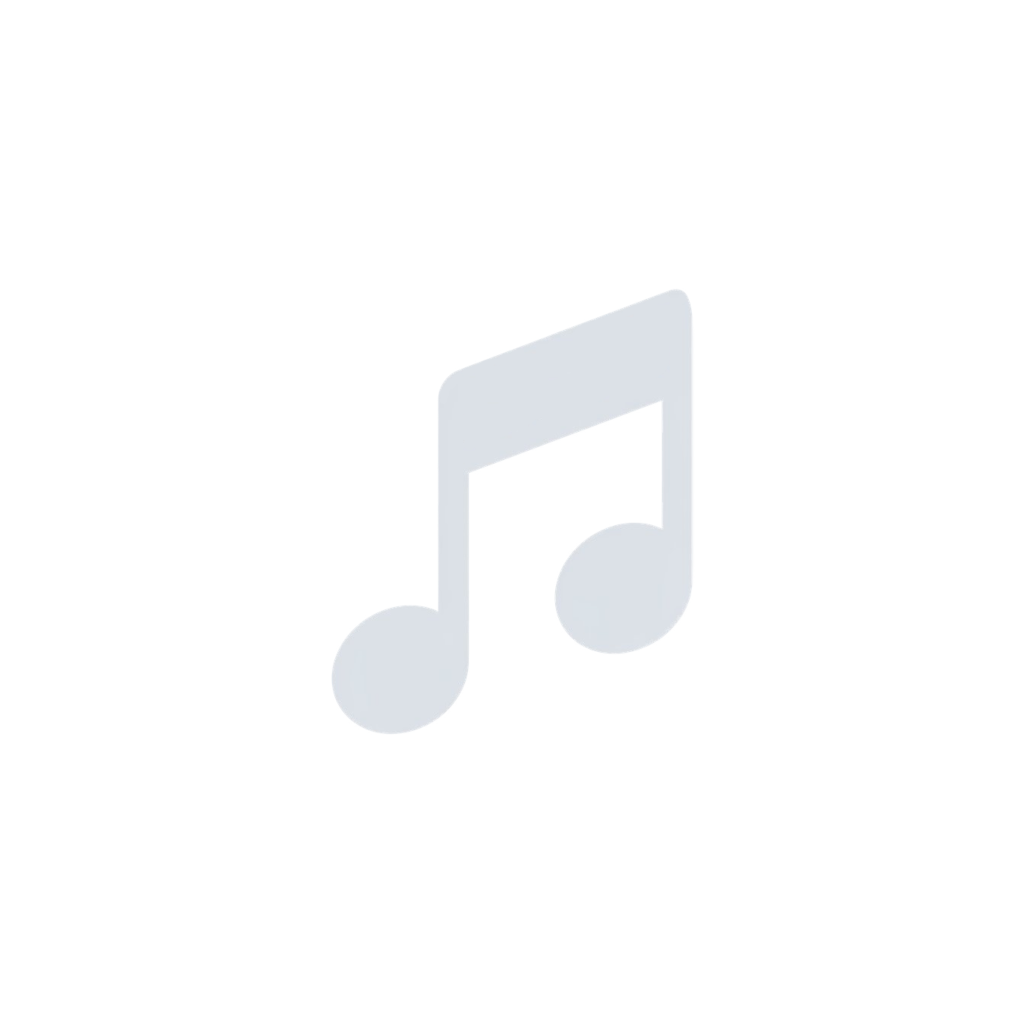
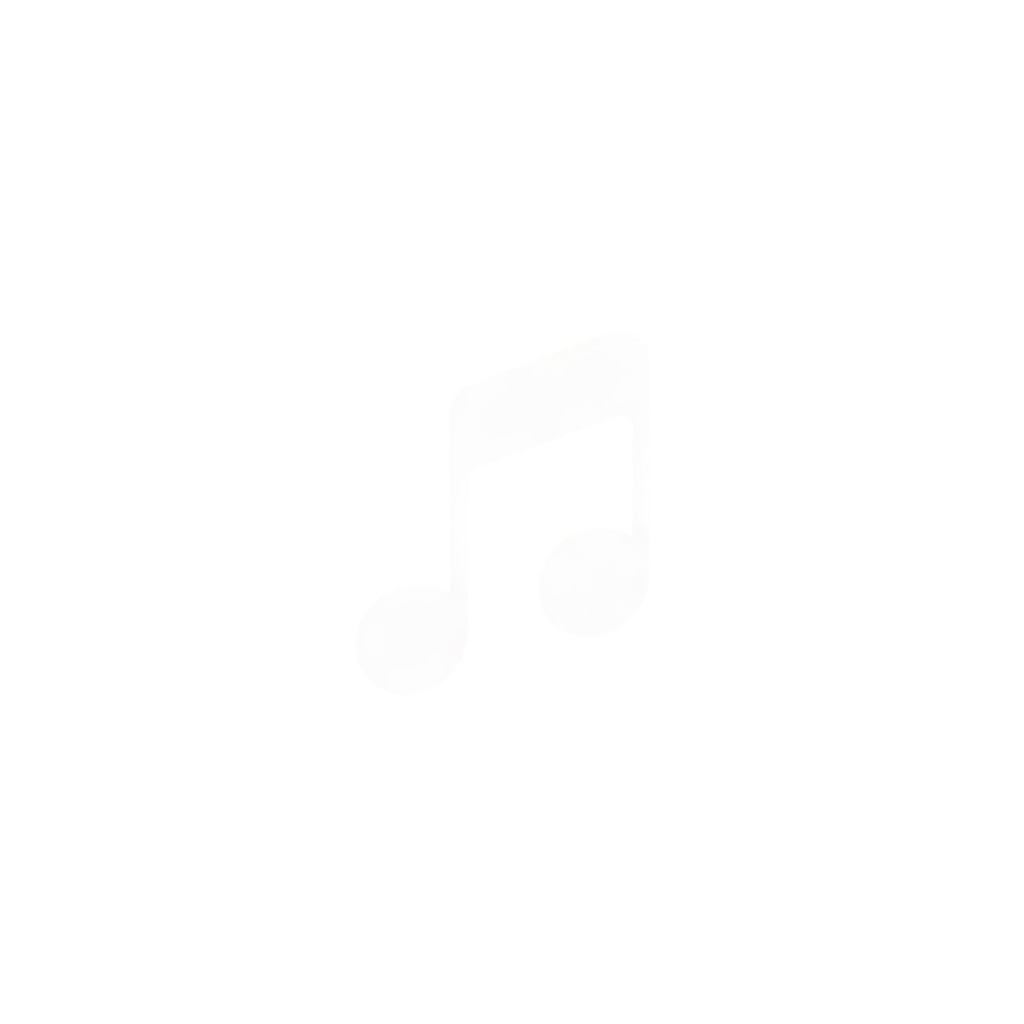
Update dependencies

Changed region(s): [[0.3125, 0.2812, 0.6875, 0.7188]]

diff --git a/app/(tabs)/_layout.tsx b/app/(tabs)/_layout.tsx
@@ -5,15 +5,13 @@ import { useThemeColor } from "@hooks/useThemeColor"
 import { PlayerProvider } from "@contexts/PlayerContext"
 
 import { family, size } from "@constants/font"
-import { elevation, border } from "@constants/styles"
+import { elevation, border, spacing } from "@constants/styles"
 
 import { Tabs } from "expo-router"
 
-import { View } from "@components/ui"
+import { View, Icon } from "@components/ui"
 
 import { Player } from "@components/navigation"
-
-import { TabBarIcon } from "@components/navigation"
 
 export default function TabLayout() {
   const bottomTabBarHeight = useBottomTabBarHeight()
@@ -38,6 +36,7 @@ export default function TabLayout() {
               fontSize: size.xxSmall,
               fontFamily: family.bold
             },
+            tabBarIconStyle: { marginBottom: -spacing.xSmall },
             headerShown: false
           }}
         >
@@ -46,7 +45,7 @@ export default function TabLayout() {
             options={{
               title: "Songs",
               tabBarIcon: ({ color, focused }) => (
-                <TabBarIcon
+                <Icon
                   name={focused ? "musical-notes" : "musical-notes-outline"}
                   color={color}
                 />
@@ -58,7 +57,7 @@ export default function TabLayout() {
             options={{
               title: "Favorites",
               tabBarIcon: ({ color, focused }) => (
-                <TabBarIcon name={focused ? "heart" : "heart-outline"} color={color} />
+                <Icon name={focused ? "heart" : "heart-outline"} color={color} />
               )
             }}
           />
@@ -67,7 +66,7 @@ export default function TabLayout() {
             options={{
               title: "Playlists",
               tabBarIcon: ({ color, focused }) => (
-                <TabBarIcon name={focused ? "list" : "list"} color={color} />
+                <Icon name={focused ? "list" : "list"} color={color} />
               )
             }}
           />
@@ -76,7 +75,7 @@ export default function TabLayout() {
             options={{
               title: "Artists",
               tabBarIcon: ({ color, focused }) => (
-                <TabBarIcon name={focused ? "people" : "people-outline"} color={color} />
+                <Icon name={focused ? "people" : "people-outline"} color={color} />
               )
             }}
           />

diff --git a/components/screens/Splash.tsx b/components/screens/Splash.tsx
@@ -10,7 +10,10 @@ import { PRIMARY_COLOR } from "@constants/colors"
 
 import Constants from "expo-constants"
 
-import { Platform, StyleSheet, Image, View } from "react-native"
+import { Platform, StyleSheet } from "react-native"
+
+import { Image } from "../ui/Image"
+import { View } from "../ui/View"
 
 import Animated, {
   useSharedValue,
@@ -60,7 +63,7 @@ export function Splash({ isAppLoaded = true, children }: SplashProps) {
     }
   }, [])
 
-  useEffect(() => {
+  useEffect(() => {    
     if (isAppFinished) {
       opacity.value = withTiming(0, { duration: 250 }, (finished) => {
         if (finished) runOnJS(setIsSplashComplete)(true)
@@ -89,12 +92,12 @@ export function Splash({ isAppLoaded = true, children }: SplashProps) {
             style={{
               aspectRatio: 1,
               height: undefined,
-              width: "60%",
-              resizeMode: "contain"
+              width: "60%"
             }}
+            contentFit="contain"
             source={require("@assets/images/adaptive-icon.png")}
             onLoadEnd={onImageLoaded}
-            fadeDuration={0}
+            transition={0}
           />
         </Animated.View>
       )}

diff --git a/app/_layout.tsx b/app/_layout.tsx
@@ -31,11 +31,15 @@ export default function RootLayout() {
   })
 
   useEffect(() => {
-    if (fontsLoaded) return
-
-    setTimeout(() => {
+    const timeoutId = setTimeout(() => {
       setIsAppReady(true)
     }, 1000)
+
+    if (fontsLoaded) {
+      setIsAppReady(true)
+    }
+
+    return () => clearTimeout(timeoutId)
   }, [fontsLoaded])
 
   const themeScheme = colorScheme === "dark" ? DarkTheme : DefaultTheme
@@ -56,7 +60,6 @@ export default function RootLayout() {
           <Stack>
             <Stack.Screen name="(tabs)" options={{ headerShown: false }} />
             <Stack.Screen name="settings" options={{ headerShown: false }} />
-            <Stack.Screen name="downloads" options={{ headerShown: false }} />
           </Stack>
         </ThemeProvider>
       </GestureHandlerRootView>

diff --git a/app/(tabs)/favorites.tsx b/app/(tabs)/favorites.tsx
@@ -17,11 +17,8 @@ export default function Favorites() {
       headerProps={{
         isAnimated: true,
         title: "Favorites",
-        renderLeft: () => {
-          return <IconButton name="download-outline" onPress={() => router.push("/downloads")} />
-        },
         renderRight: () => {
-          return <IconButton name="settings-outline" onPress={() => router.push("/settings")} />
+          return <IconButton name="cog-outline" onPress={() => router.push("/settings")} />
         }
       }}
       data={data}

diff --git a/app/(tabs)/playlists.tsx b/app/(tabs)/playlists.tsx
@@ -17,11 +17,8 @@ export default function Playlists() {
       headerProps={{
         isAnimated: true,
         title: "Playlists",
-        renderLeft: () => {
-          return <IconButton name="download-outline" onPress={() => router.push("/downloads")} />
-        },
         renderRight: () => {
-          return <IconButton name="settings-outline" onPress={() => router.push("/settings")} />
+          return <IconButton name="cog-outline" onPress={() => router.push("/settings")} />
         }
       }}
       data={data}

diff --git a/app/(tabs)/artists.tsx b/app/(tabs)/artists.tsx
@@ -17,11 +17,8 @@ export default function Artists() {
       headerProps={{
         isAnimated: true,
         title: "Artists",
-        renderLeft: () => {
-          return <IconButton name="download-outline" onPress={() => router.push("/downloads")} />
-        },
         renderRight: () => {
-          return <IconButton name="settings-outline" onPress={() => router.push("/settings")} />
+          return <IconButton name="cog-outline" onPress={() => router.push("/settings")} />
         }
       }}
       data={data}

diff --git a/app/(tabs)/index.tsx b/app/(tabs)/index.tsx
@@ -17,11 +17,8 @@ export default function Songs() {
       headerProps={{
         isAnimated: true,
         title: "Songs",
-        renderLeft: () => {
-          return <IconButton name="download-outline" onPress={() => router.push("/downloads")} />
-        },
         renderRight: () => {
-          return <IconButton name="settings-outline" onPress={() => router.push("/settings")} />
+          return <IconButton name="cog-outline" onPress={() => router.push("/settings")} />
         }
       }}
       data={data}

diff --git a/app/settings.tsx b/app/settings.tsx
@@ -3,7 +3,7 @@ import { useThemeColor } from "@hooks/useThemeColor"
 import { size } from "@constants/font"
 import { borderRadius, spacing } from "@constants/styles"
 
-import { BackIcon } from "@components/navigation"
+import { BackIcon } from "@/components/navigation"
 import { List, Icon, IconButton, Text, View } from "@components/ui"
 
 const data = Array.from({ length: 200 }, (_, i) => ({ id: `${i}`, name: `Item ${i}` }))

diff --git a/components/ui/index.ts b/components/ui/index.ts
@@ -3,6 +3,7 @@ export { List } from "./List"
 export { ActivityIndicator } from "./ActivityIndicator"
 export { Button } from "./Button"
 export { Icon } from "./Icon"
+export { Image } from "./Image"
 export { IconButton } from "./IconButton"
 export { Pressable } from "./Pressable"
 export { SearchInput } from "./SearchInput"

diff --git a/components/ui/Image.tsx b/components/ui/Image.tsx
@@ -1,0 +1,7 @@
+import { Image as ExpoImage, type ImageProps as ExpoImageProps } from "expo-image"
+
+export type ImageProps = ExpoImageProps
+
+export function Image({ ...rest }: ImageProps) {
+  return <ExpoImage {...rest} />
+}

diff --git a/components/navigation/index.ts b/components/navigation/index.ts
@@ -1,3 +1,2 @@
 export { BackIcon } from "./BackIcon"
 export { Player } from "./Player"
-export { TabBarIcon } from "./TabBarIcon"
